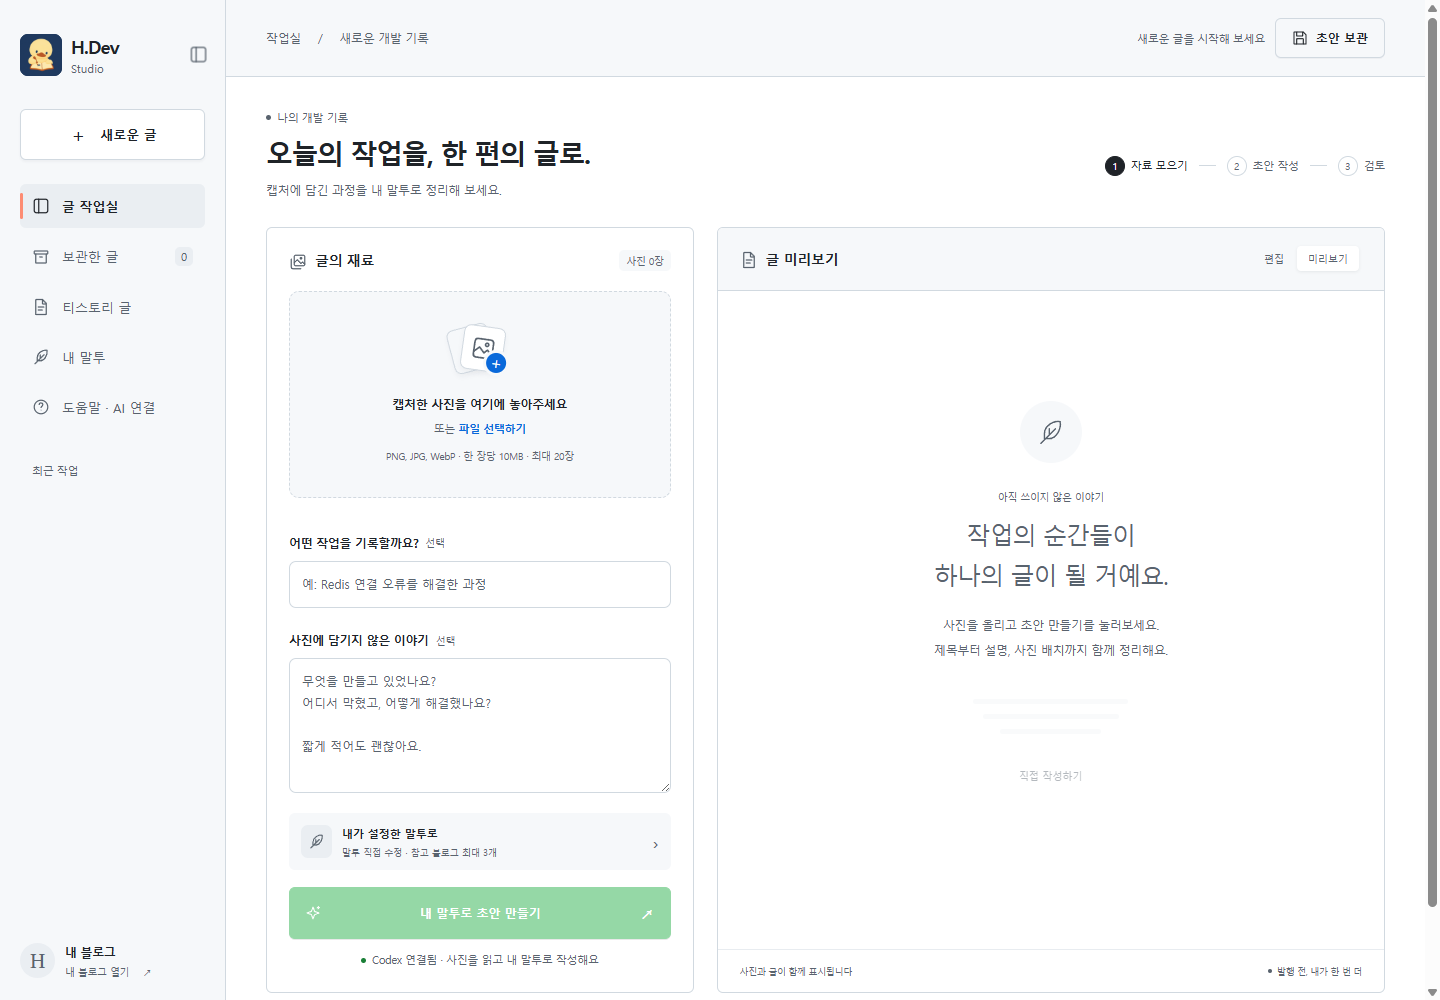
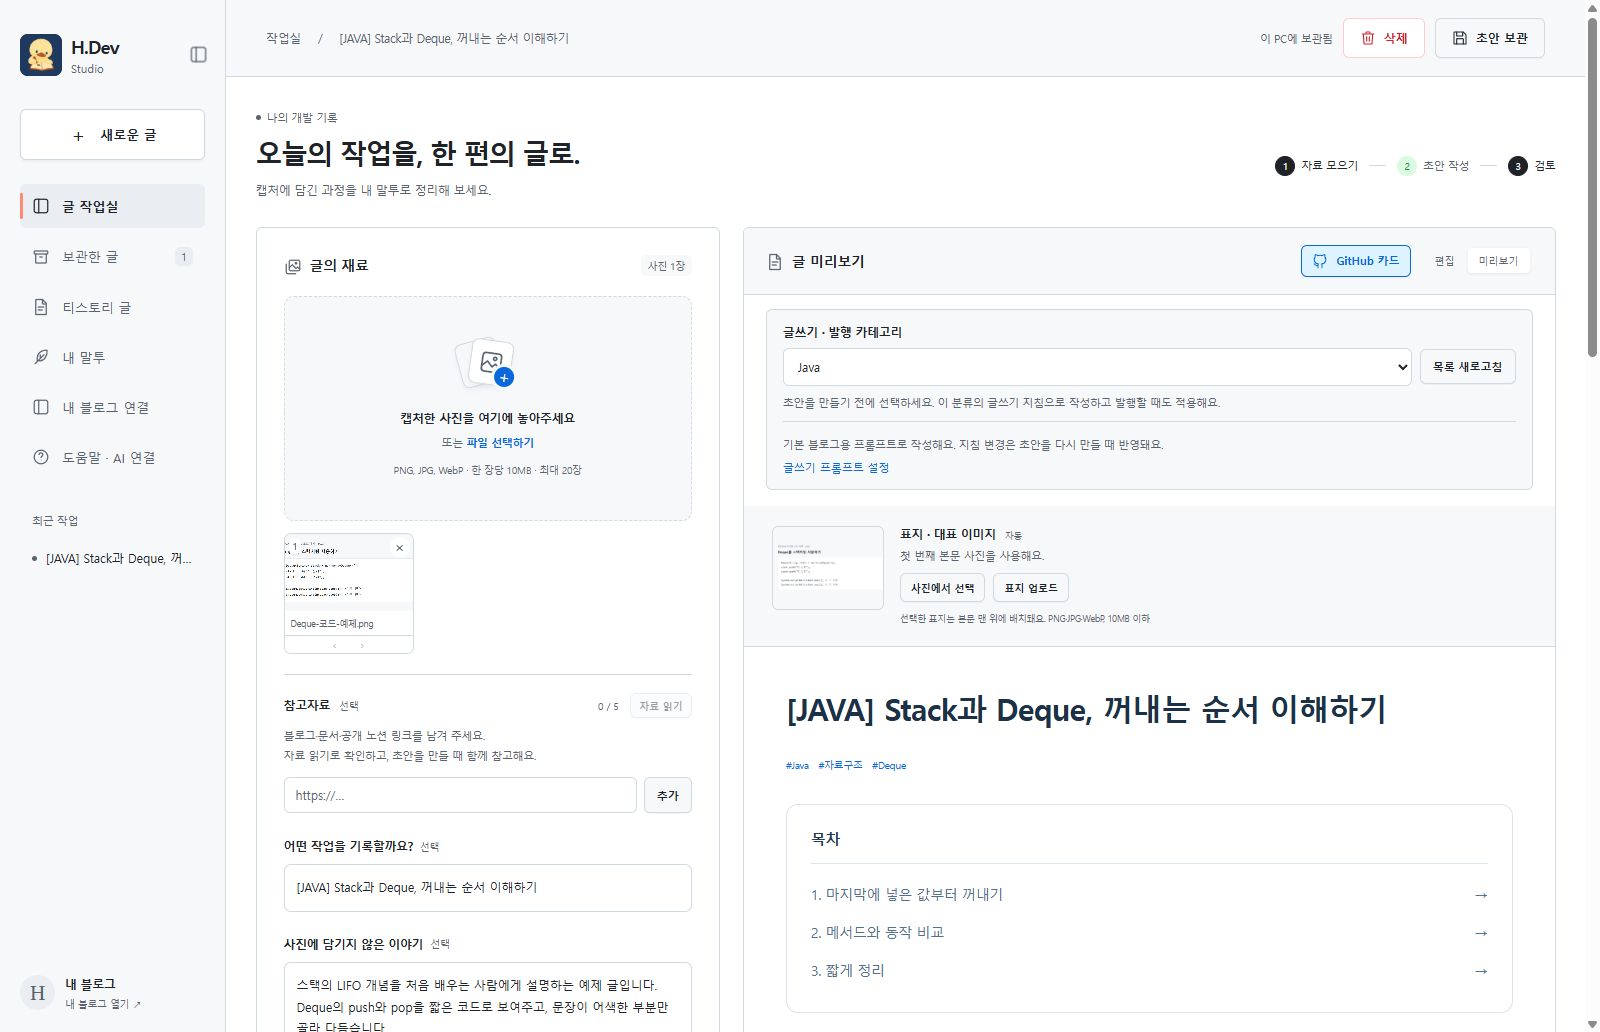
docs: 실사용 화면과 부분 글 수정 안내 추가

diff --git a/README.md b/README.md
@@ -14,13 +14,9 @@
 
 개발 캡처와 메모로 초안을 만들고, 편집·미리보기 후 직접 검토한 글을 티스토리에 발행하는 Windows 앱입니다.
 
-> 대표 이미지는 제품 콘셉트 일러스트입니다. 아래는 실제 앱 화면입니다.
+**글 전체는 그대로 두고, 어색한 문단만 골라 내 말투로 다듬을 수 있습니다.** 사진으로 만든 초안뿐 아니라 직접 쓰거나 복사해 붙여넣은 글에도 사용할 수 있습니다.
 
-## 실제 화면
-
-<p align="center">
-  <img src="docs/assets/workspace.png" width="100%" alt="사진 업로드, 주제·메모 입력, 초안 미리보기와 보관·발행 기능이 있는 H.Dev Studio 글 작업실">
-</p>
+[다운로드](#windows-앱-다운로드) · [실제 사용 화면](#실제-사용-화면) · [부분 수정 방법](#2-원하는-칸만-ai로-다듬기) · [개발 실행](#개발-실행)
 
 ## Windows 앱 다운로드
 
@@ -29,6 +25,137 @@
 처음 실행하면 **티스토리 로그인**을 누릅니다. 로그인한 계정의 블로그를 자동으로 찾아 글과 카테고리를 불러옵니다. 블로그가 여러 개면 사용할 블로그를 선택하세요. **도움말 · AI 연결**에서 Codex 또는 Claude Code를 선택하고 본인 계정으로 로그인하세요. [자세한 사용 안내](docs/USAGE.md)를 참고하세요.
 
 연결 후 로그인 버튼에는 **블로그 이름 ▾**이 표시됩니다. 이름을 눌러 블로그를 선택하거나 로그인 상태를 다시 확인할 수 있습니다.
+
+## 실제 사용 화면
+
+2026-09-23 기준 실제 앱 화면입니다. README 설명용 글·코드 사진·카테고리를 사용했습니다. 맨 위 대표 이미지는 콘셉트 일러스트이며, 아래 화면은 앱을 실행해 직접 캡처했습니다.
+
+### 1. 사진과 메모로 시작하거나, 글을 직접 쓰기
+
+왼쪽은 **글의 재료**, 오른쪽은 **편집·미리보기** 공간입니다. 사진을 모으고 글을 확인하는 과정을 한 작업실에서 이어갑니다.
+
+![사진·참고자료·메모와 카테고리·표지·글 미리보기를 함께 보여주는 실제 작업실](docs/assets/workspace.png)
+
+| 시작 방법 | 사용 순서 |
+| --- | --- |
+| 캡처로 글 만들기 | 사진 업로드 → 주제·작업 메모 입력 → 카테고리 선택 → **내 말투로 초안 만들기** |
+| 기존 글 붙여넣기 | **직접 작성하기** → 문단 칸에 붙여넣기 → 필요한 칸 다듬기 |
+| 처음부터 직접 쓰기 | **직접 작성하기** → 소제목·문단·코드 등을 추가하며 작성 |
+
+사진 아래 **참고자료**에 블로그·문서·공개 노션 링크를 최대 5개 넣을 수 있습니다. **자료 읽기**로 내용을 확인한 뒤 초안에 활용합니다. 사진 없이 직접 쓰는 것도 가능합니다.
+
+### 2. 원하는 칸만 AI로 다듬기
+
+**편집**을 누르면 글이 문단·소제목·사진·코드 등의 칸으로 나뉩니다. 직접 내용을 고치거나, AI에게 선택한 부분의 표현을 다듬도록 요청할 수 있습니다.
+
+1. 다듬을 칸에 글을 직접 쓰거나 붙여넣습니다.
+2. 필요하면 상단 요청란에 `초보자가 쉽게 이해하도록 중복 표현을 줄이고, 편한 존댓말로 다듬어줘`처럼 원하는 방향을 적습니다.
+3. 아래 세 가지 방법 중 하나로 실행합니다.
+
+| 범위 | 누르는 곳 | 바뀌는 부분 |
+| --- | --- | --- |
+| 한 칸 | 해당 칸 오른쪽 **✦ 글 다듬기** | 그 칸의 문장만 |
+| 여러 칸 | 원하는 칸의 체크박스 → **선택한 칸 다듬기** | 체크한 칸의 문장만 |
+| 전체 | **전체 선택** → **선택한 칸 다듬기** | 다듬을 수 있는 모든 칸의 문장 |
+
+아래는 **두 문단만 선택한 상태**입니다. 선택한 칸은 파란 테두리로 표시되고, 상단에서 선택 개수를 확인할 수 있습니다.
+
+<p align="center">
+  <img src="docs/assets/refine-selected.png" width="800" alt="두 문단에 체크하여 파란 테두리가 표시되고 상단에 2개 선택과 선택한 칸 다듬기 버튼이 보이는 편집 화면">
+</p>
+
+<details>
+<summary>한 칸만 다듬는 버튼 위치 보기</summary>
+
+각 칸 오른쪽의 **✦ 글 다듬기**를 누르면 해당 칸만 처리합니다. 한 칸을 다듬을 때는 체크박스를 먼저 선택할 필요가 없습니다.
+
+<p align="center">
+  <img src="docs/assets/refine-single.png" width="800" alt="각 문단과 소제목 오른쪽에 개별 글 다듬기 버튼이 있는 화면">
+</p>
+
+</details>
+
+<details>
+<summary>전체 선택 화면 보기</summary>
+
+예제 글의 10개 칸 중 **코드를 제외한 9개 칸**을 선택한 화면입니다. 전체 선택 후에도 특정 칸의 체크를 해제할 수 있습니다.
+
+<p align="center">
+  <img src="docs/assets/refine-all.png" width="800" alt="전체 선택에 체크하고 9개 선택으로 표시된 글 다듬기 화면">
+</p>
+
+</details>
+
+**코드와 사진 파일은 유지됩니다.** 사진 칸은 기존 설명·대체 텍스트의 문장만 다듬습니다. 제목·태그·카테고리·표지·GitHub 카드와 칸의 순서도 유지하며, 표·목록은 행·열·항목 수를 유지합니다.
+
+다듬기는 **도움말 · AI 연결**에서 선택하고 로그인한 Codex 또는 Claude Code를 사용합니다. 기본 말투와 해당 카테고리의 글쓰기 지침도 함께 반영합니다.
+
+### 3. 수정 결과 확인하고 되돌리기
+
+다음은 첫 번째 문단만 **실제로 Codex로 다듬은 결과**입니다. 두 번째 문단을 포함한 나머지 9개 칸은 유지됐습니다.
+
+| 수정 전 | 수정 후 |
+| --- | --- |
+| 스택이란 것을 보면 마지막에 넣은 것이 먼저 나오는 자료구조입니다. | 스택은 마지막에 넣은 값이 먼저 나오는 자료구조예요. |
+
+<p align="center">
+  <img src="docs/assets/refine-result.png" width="800" alt="첫 문단만 편한 존댓말로 바뀌고 두 번째 문단은 유지되며 다듬기 되돌리기 버튼이 나타난 화면">
+</p>
+
+- 다듬은 결과는 자동으로 보관됩니다. 원문의 뜻과 사실이 유지됐는지 읽어보세요.
+- 마음에 들지 않으면 **다듬기 되돌리기**로 직전 다듬기 전의 글을 복원합니다.
+- 결과를 직접 편집한 뒤에는 그 편집을 덮어쓰지 않도록 되돌리기가 제한됩니다.
+- 직접 편집한 내용은 상단 **초안 보관**으로 저장하고 **미리보기**에서 확인합니다.
+
+### 4. 칸을 끌어 옮기고, 중간에 내용 추가하기
+
+각 칸 왼쪽의 **점 여섯 개 손잡이**를 잡고 원하는 위치로 끌어 옮깁니다. ↑·↓ 버튼으로 이동할 수도 있습니다.
+
+칸 사이의 **＋ 여기에 추가**를 누르면 문단·소제목·코드·목록·사진·비교 표를 넣을 수 있습니다. 아래는 두 문단 사이에서 추가 메뉴를 연 화면입니다.
+
+<details>
+<summary>중간에 내용 추가하는 화면 보기</summary>
+
+<p align="center">
+  <img src="docs/assets/block-insert.png" width="800" alt="첫 번째와 두 번째 문단 사이에 문단·소제목·코드·목록·사진·비교 표 추가 메뉴가 열린 화면">
+</p>
+
+</details>
+
+### 5. 목차·GitHub 카드·사진 배치 미리보기
+
+소제목으로 목차를 만들고, **GitHub 카드**에 주제·저장소 링크·설명을 입력하면 목차 아래에 정보 카드가 표시됩니다. **표지 · 대표 이미지**에서 본문 사진을 고르거나 별도 사진을 올릴 수 있습니다.
+
+<details>
+<summary>완성된 글의 미리보기 보기</summary>
+
+<p align="center">
+  <img src="docs/assets/article-preview.png" width="800" alt="자동 목차 아래 GitHub 정보 카드, 다듬은 도입 문단과 코드 예제 사진이 배치된 글 미리보기">
+</p>
+
+</details>
+
+검토를 마친 뒤 Windows 앱의 **티스토리에 발행**을 누르면 사진 업로드부터 공개 게시까지 진행합니다. **초안 보관**은 이 PC에 저장하는 기능이며, 티스토리 발행과 구분됩니다.
+
+### 6. 카테고리별 말투와 기본 프롬프트 설정하기
+
+**내 말투**에서 뉴스·회고·트러블슈팅 등 글의 종류에 맞는 지침을 저장할 수 있습니다. 예시를 가져온 뒤 원하는 말투·구성·분량으로 수정하고 **카테고리 지침 저장**을 누릅니다.
+
+![트러블슈팅 카테고리에 예시 지침을 저장하고 기본 블로그용 프롬프트를 별도로 유지하는 내 말투 화면](docs/assets/writing-prompts.png)
+
+- 예시 5종: **AI 뉴스 · 인사이트 · 프로젝트 회고 · 트러블슈팅 · 개발 개념·사용법**
+- 별도 지침이 없는 분류에는 **기본 블로그용 프롬프트**가 적용됩니다.
+- 참고할 공개 블로그를 최대 3개 넣어 말투를 분석하고, 결과를 확인한 뒤 기본 지침에 반영할 수 있습니다.
+- 지침을 저장해도 기존 글이 즉시 바뀌지는 않습니다. 이후 초안 생성이나 글 다듬기에 적용합니다.
+
+<details>
+<summary>기본 블로그용 프롬프트·참고 블로그 설정 화면 보기</summary>
+
+<p align="center">
+  <img src="docs/assets/writing-style.png" width="100%" alt="참고 블로그 주소 세 곳과 6,408자 기본 블로그용 프롬프트를 편집하는 화면">
+</p>
+
+</details>
 
 ## 주요 기능
 
